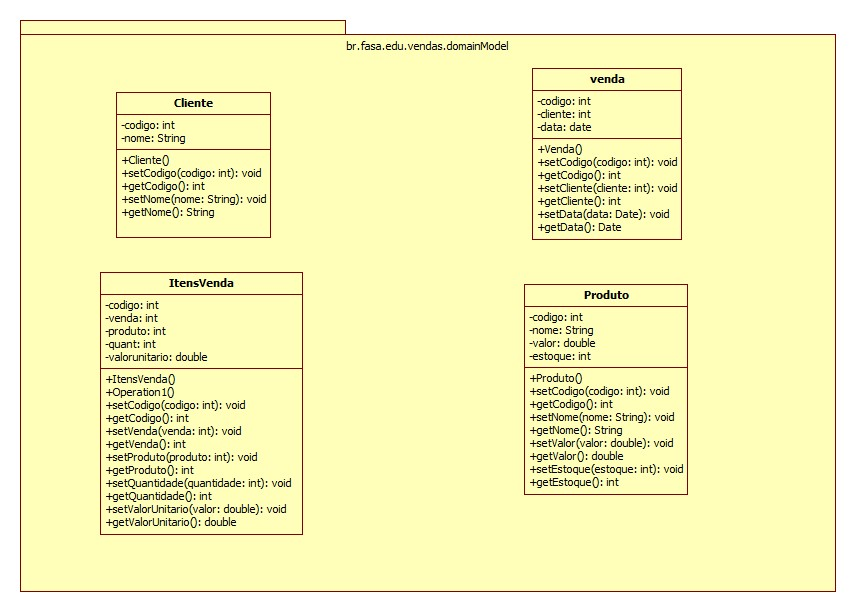
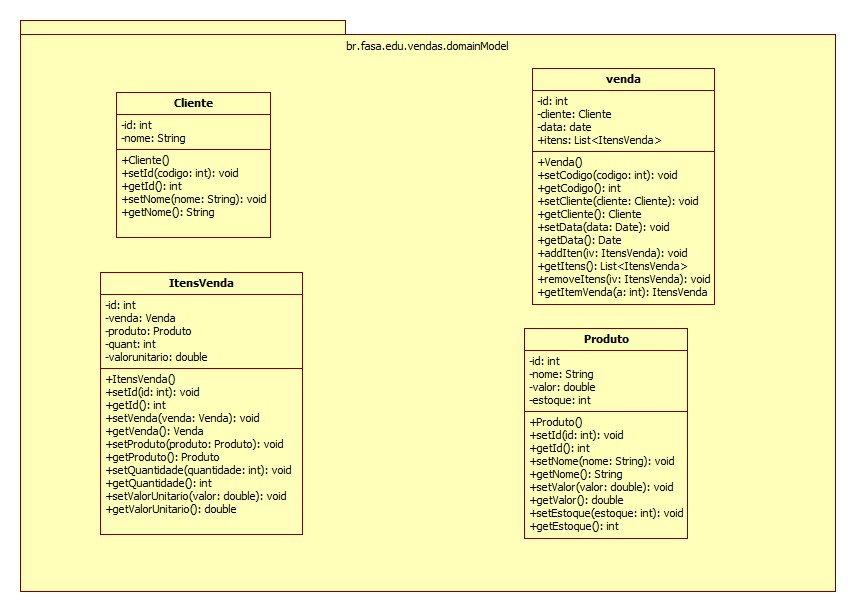
correção diagrama classes

diff --git a/src/br/edu/fasa/vendas/domainModel/ItensVenda.java b/src/br/edu/fasa/vendas/domainModel/ItensVenda.java
@@ -13,7 +13,7 @@ package br.edu.fasa.vendas.domainModel;
 public class ItensVenda {
     
     private int id;
-    private int venda;
+    private Venda venda;
     private Produto produto;
     private int quantidade;
     private double valorUnitario;
@@ -39,14 +39,14 @@ public class ItensVenda {
     /**
      * @return the venda
      */
-    public int getVenda() {
+    public Venda getVenda() {
         return venda;
     }
 
     /**
      * @param venda the venda to set
      */
-    public void setVenda(int venda) {
+    public void setVenda(Venda venda) {
         this.venda = venda;
     }
 
